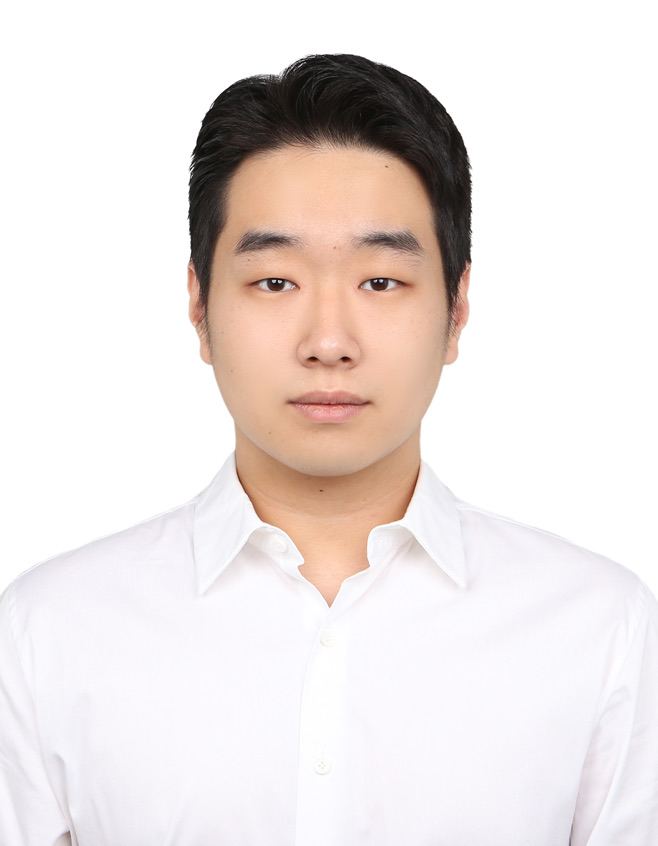
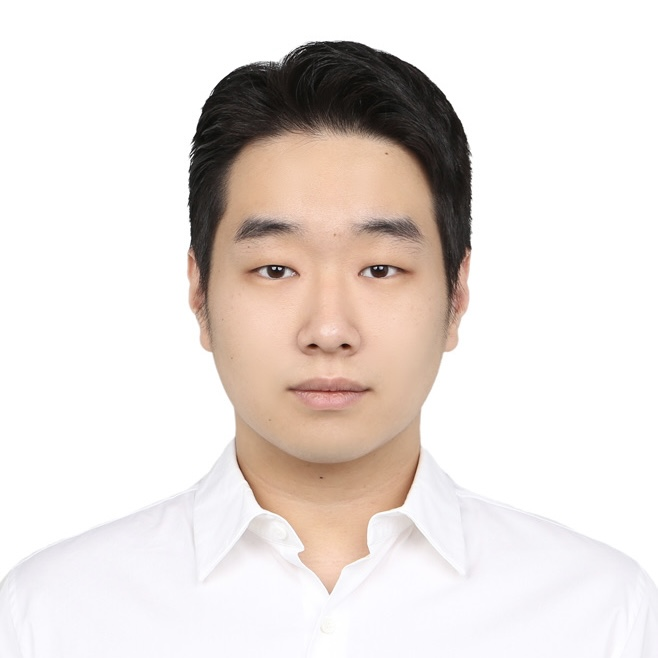
e

diff --git a/style.css b/style.css
@@ -226,8 +226,8 @@ nav img {
 } 
 
 .board-members img {
-    width: 150px; /* Adjust size of the circle */
-    height: 150px; /* Adjust size of the circle */
+    width: 300px; /* Adjust size of the circle */
+    height: 300px; /* Adjust size of the circle */
     border-radius: 50%; /* Make it a circle */
     overflow: hidden; /* Hide overflow */
     background-size: cover;
@@ -240,7 +240,7 @@ nav img {
 
 .board-members p {
     font-size: 0.8em;
-    color: rgb(30, 0, 255);
+    color: rgb(17, 2, 131);
     margin-bottom: 30px;
 }
 
@@ -266,7 +266,6 @@ nav img {
     width: 80%;
     position: absolute;
     margin: auto;
-    
     text-align: center;
 }
 

diff --git a/board.html b/board.html
@@ -41,7 +41,7 @@
           <h3>차승혜</h3>
           <p>President</p>
 
-          <img src="images/profile.png" />
+          <img src="images/board/김민형.jpg" />
           <h3>김민형</h3>
           <p>Vice President</p>
 
@@ -50,7 +50,7 @@
           <p>Vice President</p>
         </div>
         <div class="board-members2">
-          <img src="images/profile.png" />
+          <img src="images/board/양세연.jpg" />
           <h3>양세연</h3>
           <p>Social Media Coordinator</p>
 
